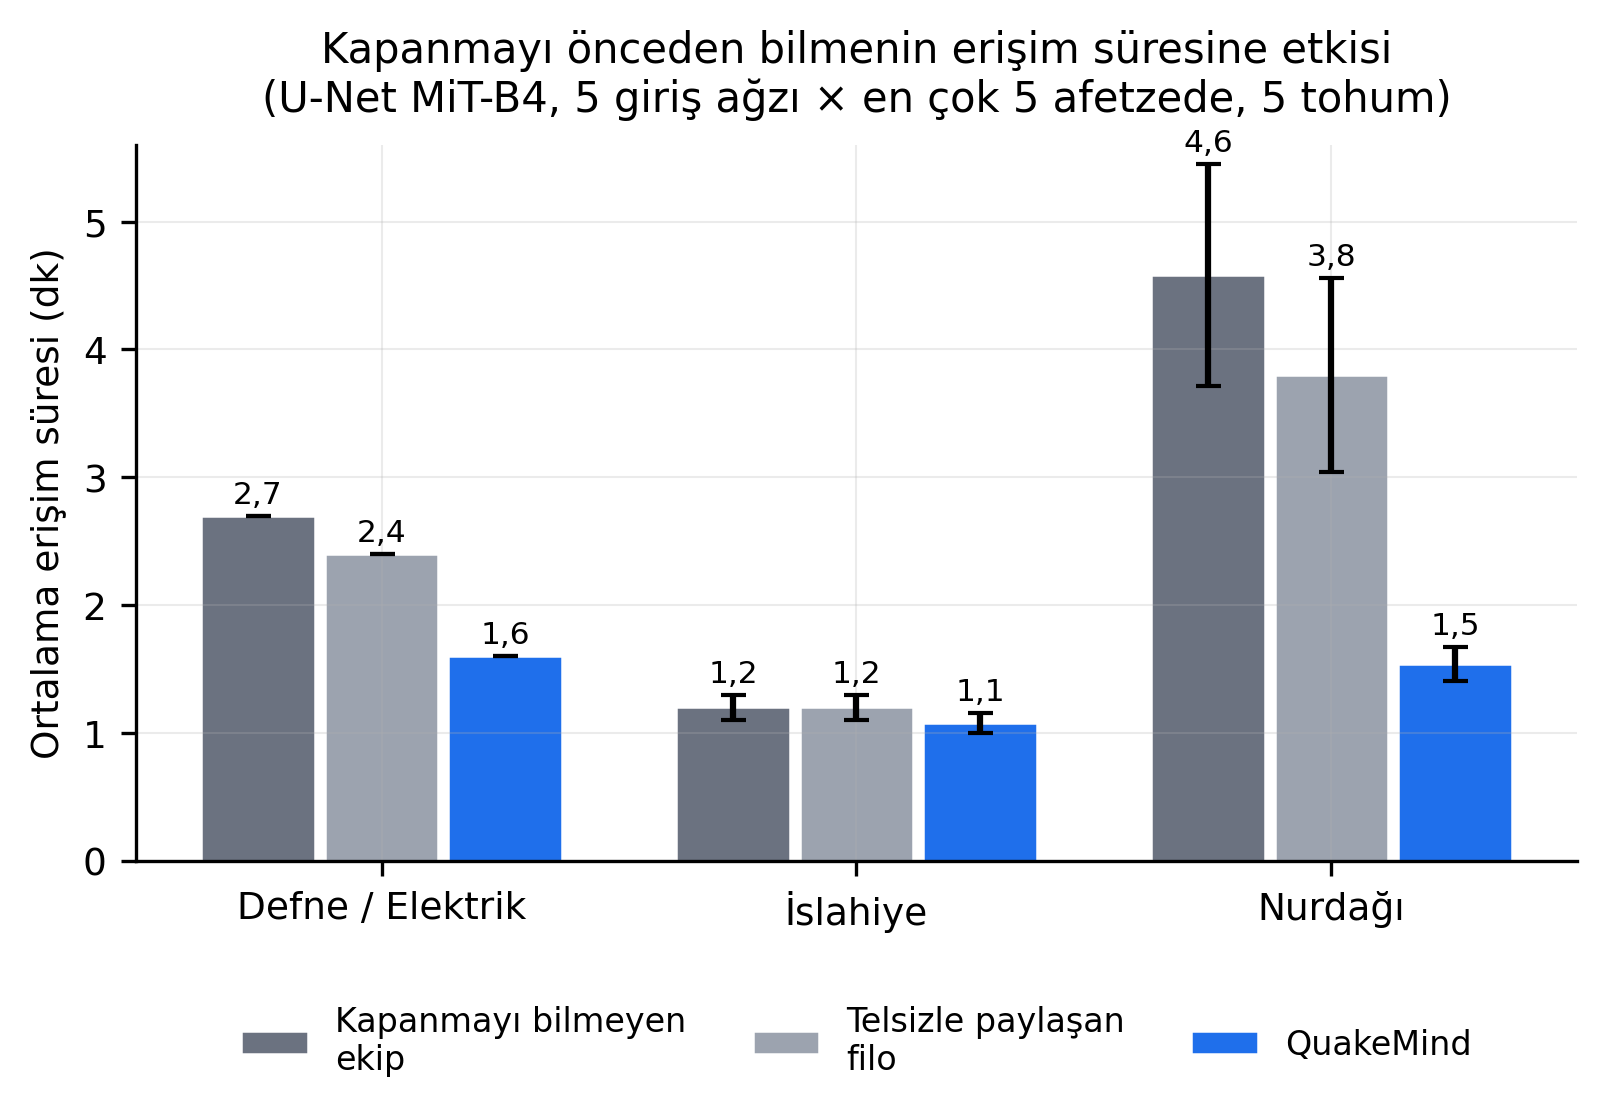
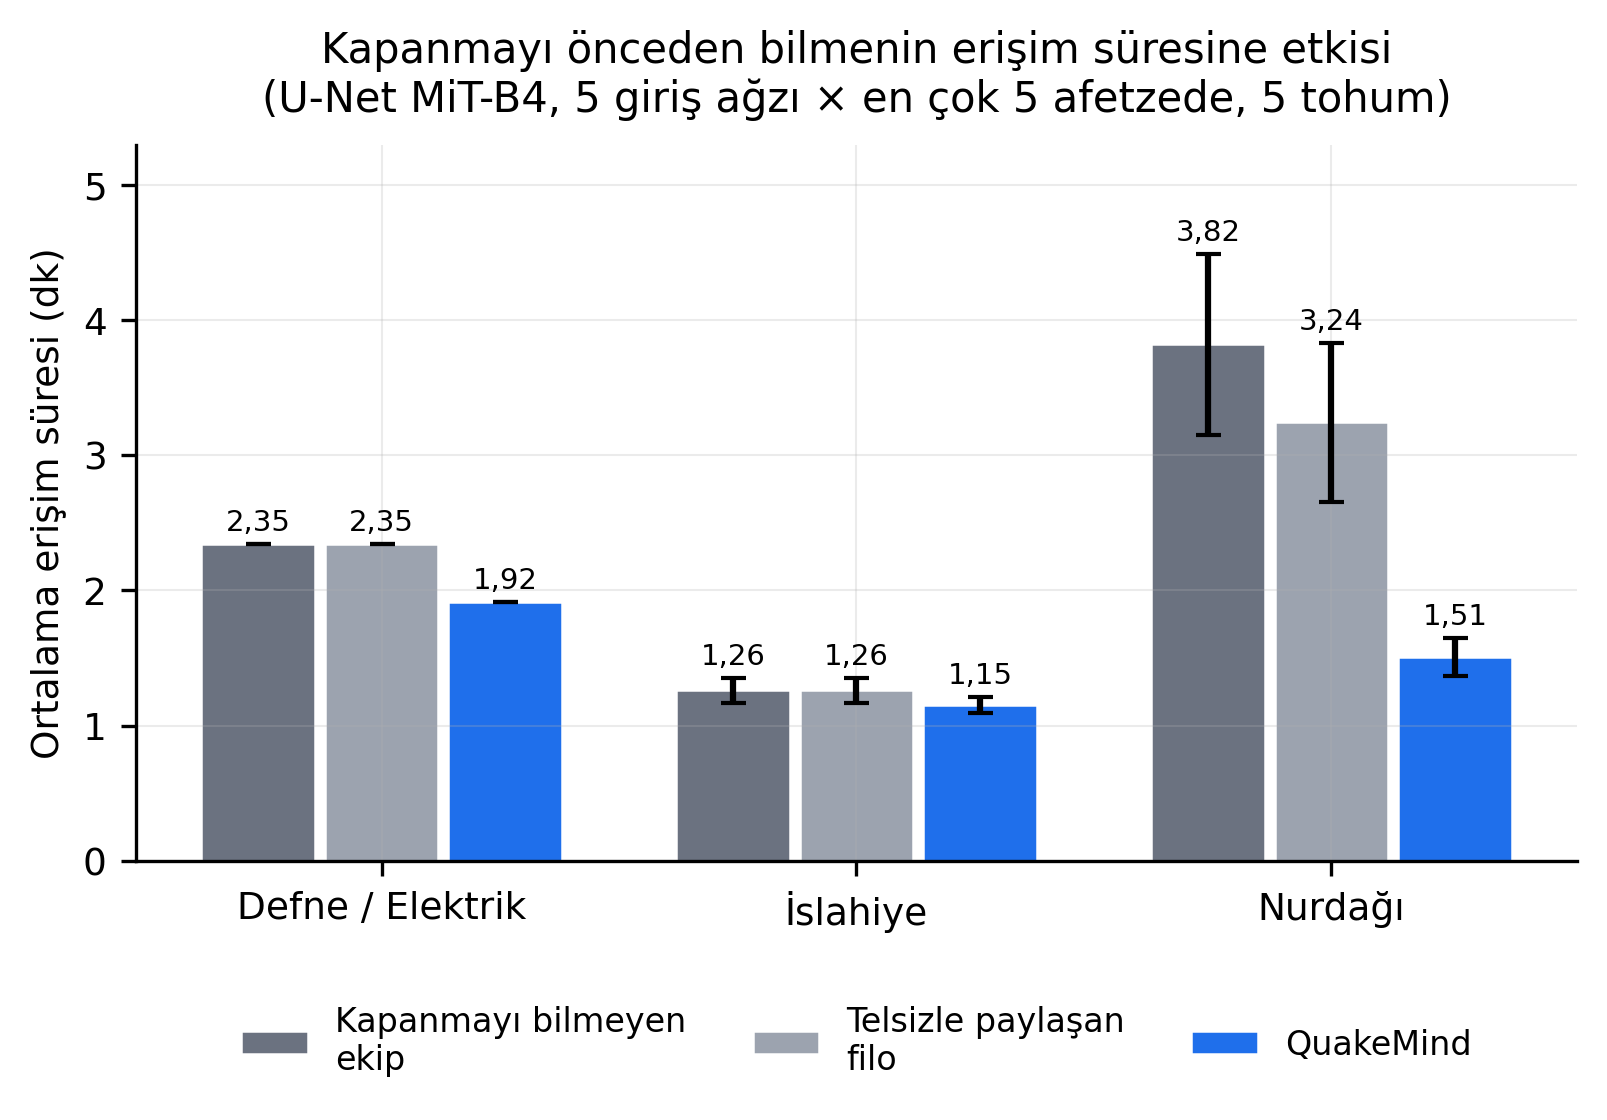
feat(şekil): tatbikat grafikleri koşu çıktılarından okunuyor; Şekil 5, 10, 11, 12 yeniden
- araclar_makale_sekilleri.py: kollar, duyarlılık, model seçimi ve keşif–kazanç
  grafikleri sayıları elle yazılmış sabitlerden değil tatbikat_b0 JSON'larından
  okur (--sonuc); duyarlılık artık U-Net ile. Şekil 12 etiketleri yeni noktalara
  göre kaydırıldı.
- araclar_makale_haritalari.py: gösterge "0'i karede" yerine "hepsi kare dışında".
- Şekil 5 (sekil_tatbikat_nurdagi), Şekil 10 (sekil_uc_kanal_*; düzeltilmiş metin
  sınıflandırıcısıyla), Şekil 11–12 düzeltilmiş kodun sonuçlarıyla üretildi.

diff --git a/QuakeMindBackend/araclar_makale_sekilleri.py b/QuakeMindBackend/araclar_makale_sekilleri.py
@@ -1,11 +1,17 @@
 # -*- coding: utf-8 -*-
 """Makaleye girecek grafikleri uretir (Word'e dokunmadan, dosya olarak).
 
-Butun sayilar `SIMULASYON_OLCUM_KAYDI.md`deki OLCULMUS degerlerdir; burada
-hicbir sey uydurulmaz, yalnizca cizilir. Sayi degisirse once olcum kaydi,
-sonra bu dosya guncellenir.
+Tatbikat grafikleri (kollar, duyarlilik, model secimi, kesif-kazanc) sayilari
+DOGRUDAN kosu ciktilarindan okur (`araclar_b0_kos.sh` klasoru): eskiden sayilar
+buraya elle yaziliyordu ve kod duzeltilip yeniden kosulunca sekiller eskide
+kaliyordu. Cikarim sureleri ve sure dagilimi i7-12700H olcumudur
+(SIMULASYON_OLCUM_KAYDI.md §14); onlar sabit kalir.
+
+    python araclar_makale_sekilleri.py [--sonuc benchmark/reports/tatbikat_b0]
 """
+import argparse
 import json
+import sys
 from pathlib import Path
 
 import matplotlib
@@ -28,16 +34,50 @@ GRI, ORTA, VURGU = "#6b7280", "#9ca3af", "#1f6feb"
 HASAR = "#d1332e"
 
 ALAN = ["Defne / Elektrik", "İslahiye", "Nurdağı"]
+MODEL = {"segformer_mitb0_p2_t42": "MiT-B0", "segformer_mitb2_p2_t42": "MiT-B2",
+         "unet_mitb4_p2_t42": "U-Net MiT-B4"}
+B_, T_, Q_ = "Kapanmayı bilmeyen ekip", "Telsizle paylaşan filo", "QuakeMind"
+
+_ap = argparse.ArgumentParser()
+_ap.add_argument("--sonuc", default=str(Path(__file__).resolve().parent / "benchmark" / "reports" / "tatbikat_b0"))
+SONUC = Path(_ap.parse_args().sonuc)
+sys.path.insert(0, str(Path(__file__).resolve().parent))
+from araclar_tatbikat_ozet import alan_ozeti  # noqa: E402
+
+
+def _alan_adi(ad):
+    return "Defne / Elektrik" if ad.startswith("Defne") else ad
+
+
+def _ozet():
+    """(alan, model) -> alan_ozeti satiri; uc modelin ana kosusundan."""
+    d = {}
+    for f in ("sonuc_b0.json", "sonuc_b2.json", "sonuc_unet.json"):
+        for s in json.loads((SONUC / f).read_text(encoding="utf-8")):
+            r = alan_ozeti(s)
+            d[(_alan_adi(r["alan"]), MODEL.get(r["model"], r["model"]))] = r
+    return d
+
+
+def _tohum_kazanci(dosya, tohum="42"):
+    """Tek tohumlu duyarlilik kosusu: alan -> QuakeMind kazanci (%)."""
+    k = {}
+    for s in json.loads((SONUC / dosya).read_text(encoding="utf-8")):
+        v = ((s.get("kollarTohum") or {}).get(tohum) or {}).get("varyantlar") or {}
+        b, q = (v.get(B_) or {}).get("ortalamaSureDk"), (v.get(Q_) or {}).get("ortalamaSureDk")
+        k[_alan_adi(s["alan"])] = 100.0 * (b - q) / b if b and q is not None else np.nan
+    return k
+
+
+OZET = _ozet()
 
 # --- Sekil 1: kiyas kollari (ana kosu, En iyi model, 25 cift) ---------------
 def sekil_kollar():
     kol = ["Kapanmayı bilmeyen\nekip", "Telsizle paylaşan\nfilo", "QuakeMind"]
-    veri = {"Defne / Elektrik": [2.70, 2.40, 1.60],
-            "İslahiye":         [1.20, 1.20, 1.08],
-            "Nurdağı":          [4.58, 3.80, 1.54]}
-    hata = {"Defne / Elektrik": [0.00, 0.00, 0.00],
-            "İslahiye":         [0.10, 0.10, 0.08],
-            "Nurdağı":          [0.87, 0.76, 0.13]}
+    veri = {a: [OZET[(a, "U-Net MiT-B4")][k][0] for k in ("bilmeyen", "telsiz", "quakemind")]
+            for a in ALAN}
+    hata = {a: [OZET[(a, "U-Net MiT-B4")][k][1] for k in ("bilmeyen", "telsiz", "quakemind")]
+            for a in ALAN}
     f, ax = plt.subplots(figsize=(6.2, 3.1))
     x = np.arange(len(ALAN)); g = 0.26
     for i, (k, renk) in enumerate(zip(kol, [GRI, ORTA, VURGU])):
@@ -46,24 +86,24 @@ def sekil_kollar():
                color=renk, edgecolor="white", linewidth=0.6)
         for xi, v, h in zip(x + (i - 1) * g, d, e):
             # etiket hata cubugunun USTUNE: cubugun ortasina binince okunmuyordu
-            ax.text(xi, v + h + 0.10, f"{v:.1f}".replace(".", ","), ha="center", fontsize=7.5)
+            ax.text(xi, v + h + 0.10, f"{v:.2f}".replace(".", ","), ha="center", fontsize=7)
     ax.set_xticks(x); ax.set_xticklabels(ALAN)
     ax.set_ylabel("Ortalama erişim süresi (dk)")
     ax.set_title("Kapanmayı önceden bilmenin erişim süresine etkisi\n"
                  "(U-Net MiT-B4, 5 giriş ağzı × en çok 5 afetzede, 5 tohum)", pad=8)
     ax.legend(frameon=False, fontsize=8, ncol=3, loc="upper center",
               bbox_to_anchor=(0.5, -0.16))
-    ax.set_ylim(0, 5.6)
+    ax.set_ylim(0, max(veri[a][i] + hata[a][i] for a in ALAN for i in range(3)) * 1.18)
     f.savefig(CIK / "sekil_kiyas_kollari.png"); plt.close(f)
 
 
 # --- Sekil 2: duyarlilik, eski 20 dk sabitinin etkisi -----------------------
 def sekil_duyarlilik():
-    kosu = ["Değerlendirme\n0,5 dk", "ANA\n(1,42 dk)", "Değerlendirme\n2,0 dk",
+    kosu = ["Değerlendirme\n0,5 dk", "ANA\n(1,0 dk)", "Değerlendirme\n2,0 dk",
             "ESKİ SABİT\n(20 dk)"]
-    kazanc = {"Defne / Elektrik": [24, 28, 41, 84],
-              "İslahiye":         [13, 13, 19, 62],
-              "Nurdağı":          [50, 58, 67, 94]}
+    sirali = [_tohum_kazanci("duy_deg_0.5.json"), _tohum_kazanci("sonuc_unet.json"),
+              _tohum_kazanci("duy_deg_2.0.json"), _tohum_kazanci("duy_deg_20.json")]
+    kazanc = {a: [k[a] for k in sirali] for a in ALAN}
     f, ax = plt.subplots(figsize=(6.2, 3.1))
     x = np.arange(len(kosu))
     for a, isaret in zip(ALAN, ["o", "s", "^"]):
@@ -74,10 +114,8 @@ def sekil_duyarlilik():
     ax.text(3, 99, "kullanılmıyor", ha="center", fontsize=7.5, color=HASAR)
     ax.set_xticks(x); ax.set_xticklabels(kosu, fontsize=8)
     ax.set_ylabel("QuakeMind kolunun kazancı (%)"); ax.set_ylim(0, 105)
-    # Bu kosu Tablo 17'deki modellerle degil isletim modeliyle yapildi
-    # (OLCUM_KAYDI §9); okuyan mutlak sureleri Tablo 17 ile karistirmasin.
-    ax.set_title("Sonuç, beyan edilen ceza süresine ne kadar bağlı?\n"
-                 "(segformer_mitb4_dice30, tohum 42 — eski 20 dk'lık sabit sonucu tek başına üretiyor)",
+    ax.set_title("Sonuç, beyan edilen değerlendirme süresine ne kadar bağlı?\n"
+                 "(U-Net MiT-B4, tohum 42 — eski 20 dk'lık sabit sonucu tek başına üretiyor)",
                  pad=8, fontsize=9)
     ax.legend(frameon=False, fontsize=8, loc="center left")
     f.savefig(CIK / "sekil_duyarlilik.png"); plt.close(f)
@@ -88,8 +126,9 @@ def sekil_model():
     ad = ["Hızlı\nMiT-B0", "Dengeli\nMiT-B2", "En iyi\nU-Net MiT-B4"]
     sure = [1.91, 4.71, 10.50]
     iou = [0.382, 0.409, 0.433]
-    kazanc = {"Nurdağı": [59.5, 64.9, 65.8], "İslahiye": [7.1, 40.9, 9.9],
-              "Defne / Elektrik": [np.nan, 40.9, 40.7]}
+    kazanc = {a: [(OZET[(a, m)]["kazanc"][0]
+                   if OZET[(a, m)].get("kazanc") and OZET[(a, m)]["kazanc"][0] is not None else np.nan)
+                  for m in ("MiT-B0", "MiT-B2", "U-Net MiT-B4")] for a in ALAN}
     f, (a1, a2) = plt.subplots(1, 2, figsize=(8.2, 3.0))
     # Iki panel arasi bosluk: ikiz eksenin "Sinama IoU" etiketi sag panelin
     # y etiketine biniyordu.
@@ -139,23 +178,25 @@ def sekil_sure():
 
 # --- Sekil 5: kesif sayisi - kazanc (Tablo 17'nin sekiz satiri) -------------
 def sekil_kesif():
-    # (alan, model, kesif, kazanc %, s.s. %, kume) -- OLCUM_KAYDI §8.2
-    satir = [("Defne / Elektrik", "MiT-B2", 10.0, 40.9, None, "1/5"),
-             ("Defne / Elektrik", "U-Net MiT-B4", 4.0, 40.7, None, "1/5"),
-             ("İslahiye", "MiT-B0", 1.0, 7.1, None, "1/5"),
-             ("İslahiye", "MiT-B2", 9.8, 40.9, 4.6, "5/5"),
-             ("İslahiye", "U-Net MiT-B4", 1.8, 9.9, 3.1, "5/5"),
-             ("Nurdağı", "MiT-B0", 29.4, 59.5, 5.3, "5/5"),
-             ("Nurdağı", "MiT-B2", 33.8, 64.9, 5.7, "5/5"),
-             ("Nurdağı", "U-Net MiT-B4", 44.4, 65.8, 3.6, "5/5")]
+    # (alan, model, kesif [kapanmayi bilmeyen ekip], kazanc %, s.s. %, kume)
+    satir = []
+    for (a, m), r in sorted(OZET.items()):
+        if not r.get("gecerliTohum"):
+            continue  # arac rotasi yok (Defne, MiT-B0)
+        tek = r["kume"].startswith("1/")
+        satir.append((a, m, r["kesifBilmeyen"][0], r["kazanc"][0],
+                      None if tek else r["kazanc"][1], r["kume"]))
     isaret = {"Defne / Elektrik": "o", "İslahiye": "s", "Nurdağı": "^"}
     global ETIKET_KESIF
+    # Etiket kaydirmalari 28 Eylul yeniden kosusunun noktalarina gore (nokta
+    # konumu degisirse burasi da gozden gecirilmeli: MiT-B0 ve U-Net
+    # Islahiye'de ust uste).
     ETIKET_KESIF = {
-        ("Defne / Elektrik", "MiT-B2"): ("MiT-B2 (Defne)", (8, 7)),
-        ("Defne / Elektrik", "U-Net MiT-B4"): ("U-Net MiT-B4 (Defne)", (-40, 8)),
-        ("İslahiye", "MiT-B2"): ("MiT-B2 (İslahiye)", (8, -13)),
-        ("İslahiye", "MiT-B0"): ("MiT-B0", (6, -12)),
-        ("İslahiye", "U-Net MiT-B4"): ("U-Net MiT-B4", (7, 5)),
+        ("Defne / Elektrik", "MiT-B2"): ("MiT-B2 (Defne)", (-66, -3)),
+        ("Defne / Elektrik", "U-Net MiT-B4"): ("U-Net MiT-B4 (Defne)", (7, -2)),
+        ("İslahiye", "MiT-B2"): ("MiT-B2 (İslahiye)", (8, 2)),
+        ("İslahiye", "MiT-B0"): ("MiT-B0 (İslahiye)", (-4, -15)),
+        ("İslahiye", "U-Net MiT-B4"): ("U-Net MiT-B4 (İslahiye)", (8, 3)),
     }
     f, ax = plt.subplots(figsize=(6.2, 3.2))
     for a in ALAN:
@@ -170,7 +211,7 @@ def sekil_kesif():
             yazi, kay = ETIKET_KESIF.get((a, x[1]), (x[1], (6, 4)))
             ax.annotate(yazi, (x[2], x[3]), textcoords="offset points", xytext=kay,
                         fontsize=6.8, color="#374151")
-    ax.set_xlabel("Keşif sayısı (makale Tablo 15)")
+    ax.set_xlabel("Keşif sayısı, kapanmayı bilmeyen ekip (makale Tablo 15)")
     ax.set_ylabel("QuakeMind kolunun kazancı (%)")
     ax.set_xlim(-1, 50); ax.set_ylim(0, 80)
     ax.set_title("Kazanç, kapanmaların ekip rotalarına düşme sıklığını izler\n"

diff --git a/QuakeMindBackend/araclar_makale_haritalari.py b/QuakeMindBackend/araclar_makale_haritalari.py
@@ -177,7 +177,9 @@ def main() -> int:
         ((31, 111, 235), "cizgi", "Ekip güzergâhı (kapanmalara göre)"),
         ((31, 111, 235), "daire",
          f"Mahalle giriş ağzı — {len(ekip)} ekip"
-         + (f", {ekip_icerde}'i karede" if ekip_icerde < len(ekip) else "")),
+         + ("" if ekip_icerde == len(ekip) else
+            ", hepsi kare dışında" if ekip_icerde == 0 else
+            f", {ekip_icerde}'i karede")),
         ((209, 51, 46), "kare", f"Afetzede — senaryo ({len(kurban)})"),
     ], baslik=f"{alan['il']} / {alan['yer']} · {alan['saglayici']} · {alan['tarih']} · "
              f"model {a.model} · kapsama %{kapsama['edgesObservedFraction']*100:.0f}"
